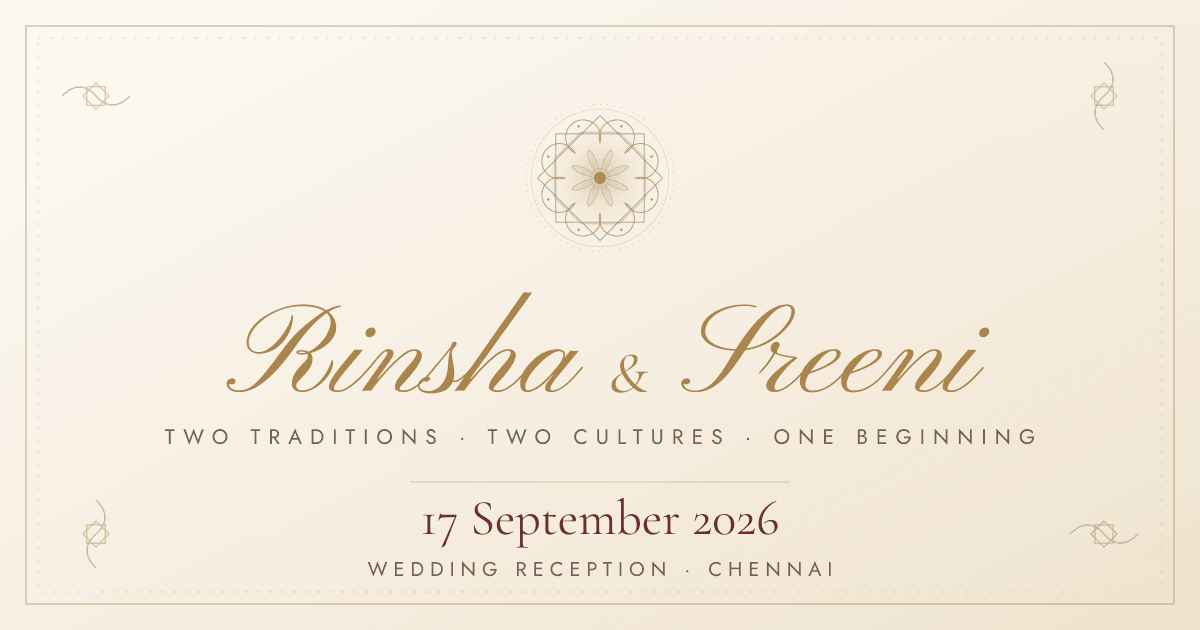
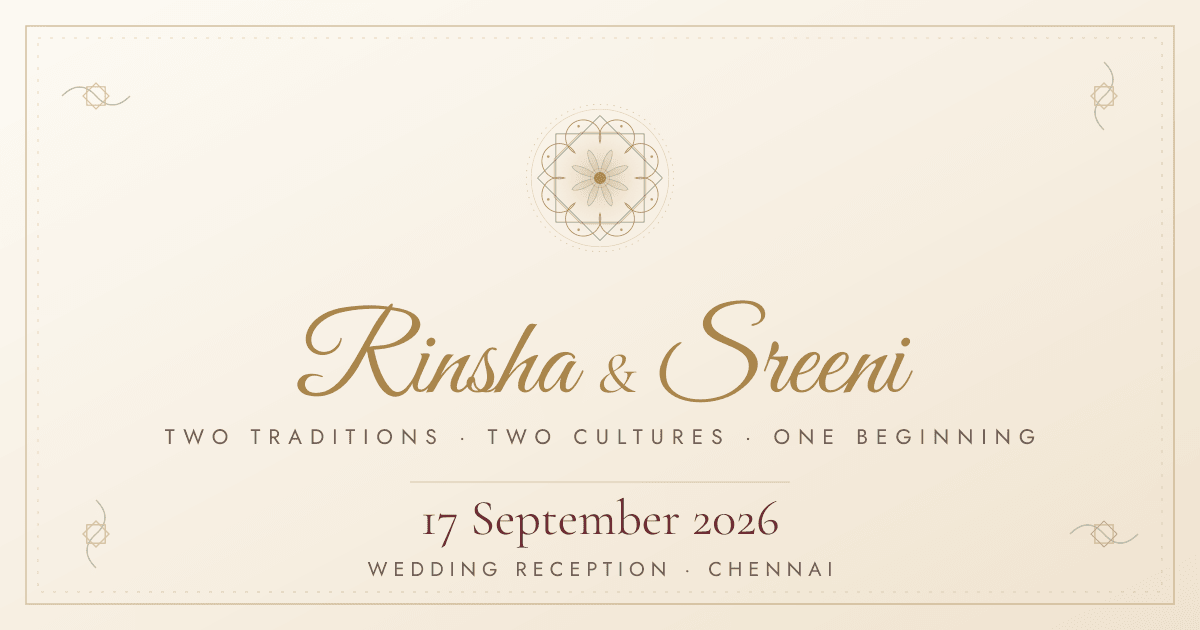
Fix the misread name, keep every line inside the arch, and light the room
Four things from a read on a real phone.

- "Sreeni" was reading as "Preeni". Pinyon Script's capital S carries a
  leading loop that closes into a P at display size. Swapped the script face
  to Great Vibes, whose S is unmistakable, and trimmed the script scale to
  match its taller x-height. The share card follows.
- Text was breaking out through the arch on both sides. An arch is narrow at
  the top, so content has to begin below the point where the curve reaches
  full width — the hero now starts far lower and its top two lines are held
  to a narrower measure, and the arch itself is flatter so it opens sooner.
- Arch cards had the same fault, worse: the vertical half of the border
  radius is a percentage of the card's *height*, so a tall card grew an
  enormous dome that swallowed the first lines. Shallow radius, deeper top
  padding.
- The background read as plain stock. It is now a hall by lamplight: a warm
  pool where the light falls, a sepia vignette pulling the edges into shadow,
  gold and maroon pigment washes, a gilded medallion behind it all, and the
  jaali lattice carrying real weight with a multiply blend. Tinted sections
  became deeper panels with inset shadow, and cards lift off the ground with
  a gilded top edge.

Full suite green — 23 checks, 0 failures.

Claude-Session: https://claude.ai/code/session_01GAV71ybToVUSf85YK7tmfR

Changed region(s): [[0.2158, 0.4825, 0.8325, 0.6333], [0.4317, 0.4524, 0.4625, 0.4825], [0.185, 0.6032, 0.2158, 0.6333]]

diff --git a/src/styles/base.css b/src/styles/base.css
@@ -37,9 +37,13 @@ body {
 }
 
 /*
-   The ground: handloom cloth rather than paper. A fine warp-and-weft
-   weave, a brass wash from the top corners, and the whole thing warm
-   enough that gold reads as metal on it.
+   The ground: a palace hall by lamplight, not a sheet of paper.
+
+   Four layers, back to front — a warm amber pool where the light falls, a
+   deep sepia vignette pulling the edges into shadow, gold and maroon
+   pigment washes, and the finest of weaves over all of it. The vignette is
+   what does the work: without darkened edges a page reads as flat stock, and
+   with them it reads as a lit room.
 */
 body::before {
   content: '';
@@ -48,19 +52,47 @@ body::before {
   pointer-events: none;
   z-index: 0;
   background:
-    repeating-linear-gradient(
-      90deg,
-      rgba(150, 116, 47, 0.032) 0 1px,
-      transparent 1px 5px
+    /* weave */
+    repeating-linear-gradient(90deg, rgba(120, 88, 30, 0.03) 0 1px, transparent 1px 5px),
+    repeating-linear-gradient(0deg, rgba(94, 31, 39, 0.02) 0 1px, transparent 1px 5px),
+    /* pigment washes */
+    radial-gradient(90% 55% at 15% 0%, rgba(186, 143, 56, 0.3), transparent 62%),
+    radial-gradient(80% 50% at 88% 12%, rgba(53, 89, 74, 0.16), transparent 60%),
+    radial-gradient(90% 60% at 50% 100%, rgba(94, 31, 39, 0.2), transparent 62%),
+    /* the lamplight pool, and the shadow at the edges */
+    radial-gradient(
+      120% 85% at 50% 38%,
+      rgba(255, 246, 226, 0.72) 0%,
+      rgba(247, 233, 205, 0.28) 38%,
+      transparent 62%
     ),
-    repeating-linear-gradient(
-      0deg,
-      rgba(94, 31, 39, 0.022) 0 1px,
-      transparent 1px 5px
-    ),
-    radial-gradient(120% 80% at 12% -10%, rgba(168, 128, 48, 0.16), transparent 60%),
-    radial-gradient(100% 70% at 92% 8%, rgba(53, 89, 74, 0.1), transparent 62%),
-    radial-gradient(120% 90% at 50% 108%, rgba(94, 31, 39, 0.1), transparent 60%);
+    radial-gradient(
+      135% 100% at 50% 45%,
+      transparent 42%,
+      rgba(104, 74, 30, 0.16) 74%,
+      rgba(72, 46, 18, 0.34) 100%
+    );
+}
+
+/*
+   A gilded medallion behind the whole page — the ceiling rose of the hall,
+   caught only when the light is right.
+*/
+body::after {
+  content: '';
+  position: fixed;
+  inset: 0;
+  pointer-events: none;
+  z-index: 0;
+  opacity: 0.5;
+  background-image:
+    radial-gradient(circle at 50% 22%, rgba(186, 143, 56, 0.16) 0 1px, transparent 1.5px),
+    repeating-radial-gradient(
+      circle at 50% 22%,
+      transparent 0 46px,
+      rgba(186, 143, 56, 0.055) 46px 47px,
+      transparent 47px 94px
+    );
 }
 
 /* The pierced-screen ground, sitting behind everything at a whisper. */
@@ -68,7 +100,8 @@ body::before {
   position: fixed;
   inset: 0;
   z-index: 0;
-  opacity: 0.09;
+  opacity: 0.16;
+  mix-blend-mode: multiply;
   pointer-events: none;
 }
 
@@ -229,7 +262,12 @@ a {
 /* Alternate sections sit on a deeper cloth, banded top and bottom. */
 .section--tint {
   padding-block: 0;
-  background: linear-gradient(180deg, rgba(224, 203, 167, 0.55), rgba(235, 220, 192, 0.75));
+  background:
+    linear-gradient(180deg, rgba(196, 162, 106, 0.34), rgba(214, 186, 137, 0.3)),
+    linear-gradient(180deg, rgba(224, 203, 167, 0.6), rgba(233, 216, 184, 0.72));
+  box-shadow:
+    inset 0 14px 30px -20px rgba(72, 46, 18, 0.5),
+    inset 0 -14px 30px -20px rgba(72, 46, 18, 0.5);
 }
 
 .section--tint > .shell {
@@ -396,7 +434,10 @@ a {
     linear-gradient(160deg, rgba(253, 247, 234, 0.97), rgba(241, 228, 205, 0.94));
   border: 1px solid var(--rule-strong);
   border-radius: var(--radius-m);
-  box-shadow: var(--shadow-soft);
+  box-shadow:
+    0 1px 0 rgba(255, 250, 236, 0.85) inset,
+    0 26px 60px -34px rgba(72, 46, 18, 0.62),
+    0 2px 10px -6px rgba(72, 46, 18, 0.3);
 }
 
 /* The inner rule that makes it read as printed rather than drawn. */
@@ -442,7 +483,8 @@ a {
 
 .card--arch {
   border-radius: var(--radius-arch);
-  padding-top: clamp(2rem, 6vw, 3.2rem);
+  /* Clear of the curve, and narrower so no line runs out through it. */
+  padding: clamp(4.5rem, 15vw, 6.5rem) clamp(2.2rem, 8vw, 3.4rem) clamp(1.8rem, 5vw, 2.8rem);
 }
 
 /* Fine kasavu double-rule used along section edges. */

diff --git a/src/styles/tokens.css b/src/styles/tokens.css
@@ -56,7 +56,11 @@
        display — section titles, dates, the emotional lines
        body    — everything a guest has to read carefully
   */
-  --font-script: 'Pinyon Script', 'Snell Roundhand', 'Apple Chancery', cursive;
+  /*
+     Great Vibes, not Pinyon Script: Pinyon's capital S has a leading loop
+     that reads as a P, and "Preeni" is not the groom's name.
+  */
+  --font-script: 'Great Vibes', 'Snell Roundhand', 'Apple Chancery', cursive;
   --font-display: 'Cormorant Garamond', 'Iowan Old Style', 'Palatino Linotype',
     'Times New Roman', serif;
   --font-body: 'Jost', -apple-system, BlinkMacSystemFont, 'Segoe UI', Roboto,
@@ -75,9 +79,9 @@
   --step-5: clamp(3.6rem, 2.1rem + 7.2vw, 8rem);
 
   /* Script sits on a scale of its own — low x-height needs more size. */
-  --script-s: clamp(1.9rem, 1.45rem + 2.2vw, 3.1rem);
-  --script-m: clamp(2.4rem, 1.7rem + 3.5vw, 4.6rem);
-  --script-l: clamp(3.4rem, 1.95rem + 6.6vw, 7.6rem);
+  --script-s: clamp(1.7rem, 1.3rem + 2vw, 2.8rem);
+  --script-m: clamp(2.2rem, 1.55rem + 3.2vw, 4.2rem);
+  --script-l: clamp(3rem, 1.8rem + 5.8vw, 6.8rem);
 
   --tracking-wide: 0.28em;
   --tracking-mid: 0.16em;
@@ -102,7 +106,12 @@
 
   --radius-s: 6px;
   --radius-m: 14px;
-  --radius-arch: 46% 46% 8px 8px / 34% 34% 8px 8px;
+  /*
+     The vertical half of this is a percentage of the card's *height*, so on a
+     tall card a large value produces an enormous dome that eats the first
+     lines of text. Keep it shallow.
+  */
+  --radius-arch: 50% 50% 10px 10px / 8% 8% 10px 10px;
 
   color-scheme: light;
 }

diff --git a/src/components/ornaments/Ornaments.tsx b/src/components/ornaments/Ornaments.tsx
@@ -249,8 +249,8 @@ export const PalmFrond = memo(function PalmFrond({ className }: OrnamentProps) {
 export const ArchOutline = memo(function ArchOutline({ className, weight = 1 }: OrnamentProps) {
   return (
     <svg className={className} viewBox="0 0 200 260" fill="none" aria-hidden="true" focusable="false" preserveAspectRatio="none">
-      <path d={archPath(4, 4, 192, 252, 0.44)} stroke="currentColor" strokeWidth={1.2 * weight} />
-      <path d={archPath(13, 13, 174, 243, 0.44)} stroke="currentColor" strokeWidth={0.7 * weight} strokeOpacity="0.6" strokeDasharray="2 6" />
+      <path d={archPath(4, 4, 192, 252, 0.3)} stroke="currentColor" strokeWidth={1.2 * weight} />
+      <path d={archPath(13, 13, 174, 243, 0.3)} stroke="currentColor" strokeWidth={0.7 * weight} strokeOpacity="0.6" strokeDasharray="2 6" />
     </svg>
   );
 });

diff --git a/src/styles/sections.css b/src/styles/sections.css
@@ -276,11 +276,22 @@
   filter: saturate(0.85);
 }
 
+/*
+   An arch is narrow at the top. Content has to start below the point where
+   the curve reaches full width, or the first line pokes out through it.
+*/
 .hero__frame {
   position: relative;
   width: min(100%, 32rem);
-  padding: clamp(2.5rem, 8vw, 4rem) clamp(1.2rem, 5vw, 2.5rem);
+  padding: clamp(5.5rem, 20vw, 8rem) clamp(2rem, 8vw, 3.5rem) clamp(2.5rem, 8vw, 4rem);
   text-align: center;
+}
+
+/* The topmost lines sit where the arch is still narrowing. */
+.hero__eyebrow,
+.hero__names {
+  width: min(100%, 22rem);
+  margin-inline: auto;
 }
 
 .hero__arch {

diff --git a/index.html b/index.html
@@ -62,7 +62,7 @@
     <link rel="preconnect" href="https://fonts.gstatic.com" crossorigin />
     <link
       rel="stylesheet"
-      href="https://fonts.googleapis.com/css2?family=Cormorant+Garamond:ital,wght@0,300;0,400;0,500;0,600;1,300;1,400&family=Jost:wght@300;400;500&family=Pinyon+Script&display=swap"
+      href="https://fonts.googleapis.com/css2?family=Cormorant+Garamond:ital,wght@0,300;0,400;0,500;0,600;1,300;1,400&family=Jost:wght@300;400;500&family=Great+Vibes&display=swap"
     />
     <link
       rel="stylesheet"
